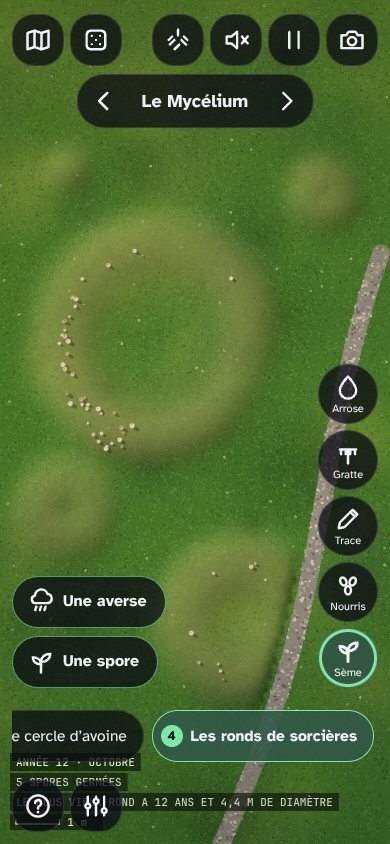
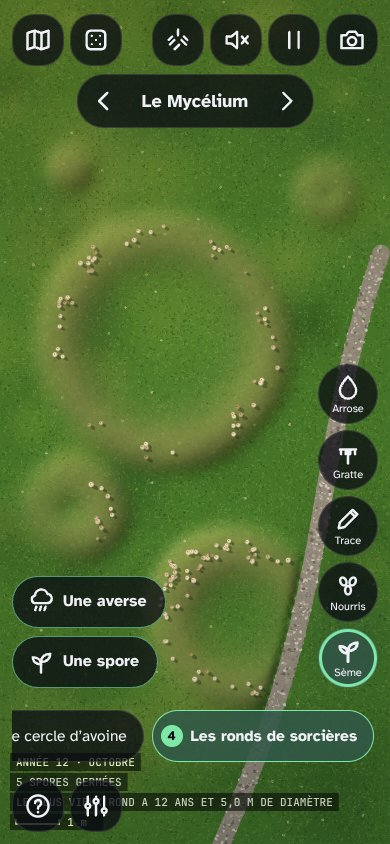
Ronds de sorcières nets sur téléphone et visibles sous la neige ; étiquette et aide du Soleil en 390
- ronds : cases de 3 px sur petit écran, champignons d'au moins 2,1 px ; la neige d'hiver (un voile uni à ~62 %
  une année sur deux) devient une neige piquetée que l'herbe des anneaux perce : ronds vert sombre sur pelouse blanchie
- Soleil : l'étiquette de l'OBSERVER reste dans l'écran (l'auréole coupait « à l'œil nu » en 390) ; la ligne
  d'état trop longue passe à la ligne entre les mots ; aide « Regarde » propre à la scène (jeunesse/meta/lave.js)

Claude-Session: https://claude.ai/code/session_01MS9d5JmMjbNw1P1jiRQA2y

diff --git a/app/js/machines/s-myce-ronds.js b/app/js/machines/s-myce-ronds.js
@@ -20,7 +20,9 @@
     // dans la hauteur utile en paysage et dans la largeur en portrait ; le bas de l'écran porte les boutons.
     const Y0 = V0.y0 || 0, YB = H * (H > W ? 0.83 : 0.86), PXM = clamp(Math.min(VW / 9, Math.max(120, YB - Y0) / 6.8), 34, 240);
     const BX = (u) => V0.x0 + VW * u, BY = (v) => Y0 + (YB - Y0) * v;
-    const CS = W * H > 1.6e6 ? 5 : 4, GW = Math.ceil(W / CS), GH = Math.ceil(H / CS), NC = GW * GH;
+    // taille des cases du calcul : plus fines sur un téléphone, où l'on voit la prairie de plus haut (anneaux nets)
+    const CS = W * H > 1.6e6 ? 5 : W * H < 5e5 ? 3 : 4, GW = Math.ceil(W / CS), GH = Math.ceil(H / CS), NC = GW * GH;
+    const RMIN = Math.min(W, H) < 600 ? 2.1 : 1.3; // rayon minimal d'un champignon dessiné, en px
     const F32 = () => new Float32Array(NC);
     const F = F32(), F2 = F32(), S = F32(), S0 = F32(), N = F32(), G = F32().fill(1), BARE = F32(), BLK = new Uint8Array(NC);
     const TH = 0.45; // en dessous de ce seuil de matière organique, le mycélium meurt de faim
@@ -80,16 +82,30 @@
         g.fillStyle = '#f2c230'; g.beginPath(); g.arc(x, y, r * 0.45, 0, TAU); g.fill();
       }
     }
-    const snow = layer(Math.ceil(W / 3), Math.ceil(H / 3));
+    // la neige (ou le givre) : presque continue, piquetée par les pointes de l'herbe ; l'herbe plus haute des anneaux
+    // la perce, et les ronds se dessinent en vert sombre sur la pelouse blanchie (une vraie image d'hiver) ; à demi-résolution
+    const snow = layer(Math.ceil(W / 2), Math.ceil(H / 2));
     {
-      const g = snow.g; g.fillStyle = 'rgba(244,247,250,.86)'; g.fillRect(0, 0, snow.w, snow.h);
-      for (let i = 0; i < 24; i++) { const x = rnd(snow.w), y = rnd(snow.h), r = rnd(snow.w * 0.3, snow.w * 0.08), gr = g.createRadialGradient(x, y, 0, x, y, r); gr.addColorStop(0, 'rgba(206,218,232,.22)'); gr.addColorStop(1, 'rgba(206,218,232,0)'); g.fillStyle = gr; g.fillRect(x - r, y - r, 2 * r, 2 * r); }
-      for (let i = 0; i < (snow.w * snow.h) / 30; i++) { g.fillStyle = Math.random() < 0.5 ? 'rgba(255,255,255,.7)' : 'rgba(170,186,200,.35)'; g.fillRect(rnd(snow.w), rnd(snow.h), 1, 1); }
+      const g = snow.g, sw = snow.w, shh = snow.h, img = g.createImageData(sw, shh), d = img.data;
+      const cw = 14, CW = Math.ceil(sw / cw) + 2, coarse = new Float32Array(CW * (Math.ceil(shh / cw) + 2));
+      for (let i = 0; i < coarse.length; i++) coarse[i] = Math.random();
+      for (let y = 0; y < shh; y++) {
+        const fy = y / cw, iy = fy | 0, uy = fy - iy;
+        for (let x = 0; x < sw; x++) {
+          const fx = x / cw, ix = fx | 0, ux = fx - ix, k = iy * CW + ix;
+          const cn = (coarse[k] * (1 - ux) + coarse[k + 1] * ux) * (1 - uy) + (coarse[k + CW] * (1 - ux) + coarse[k + CW + 1] * ux) * uy;
+          const a = clamp(0.6 + cn * 0.3 + (Math.random() - 0.5) * 0.55, 0, 1);
+          const o = (y * sw + x) * 4, v = 234 + Math.random() * 20;
+          d[o] = v; d[o + 1] = v + 3; d[o + 2] = Math.min(255, v + 9); d[o + 3] = a * 255;
+        }
+      }
+      g.putImageData(img, 0, 0);
     }
+    const snowT = layer(snow.w, snow.h); // la neige du moment, découpée là où sont les anneaux
     const deco = layer(W, H); // allées de gravier
     // trois calques de teinte : l'herbe drue en multiplication et le relief en lumière douce (la texture de l'herbe
     // reste visible au travers, au lieu d'un aplat flou), la paille et la terre nue par-dessus
-    const tint = buf(GW, GH), tintM = buf(GW, GH), tintL = buf(GW, GH);
+    const tint = buf(GW, GH), tintM = buf(GW, GH), tintL = buf(GW, GH), tintN = buf(GW, GH);
     const idx = (x, y) => { const gx = Math.floor(x / CS), gy = Math.floor(y / CS); return gx < 0 || gy < 0 || gx >= GW || gy >= GH ? -1 : gy * GW + gx; };
     function disk(x, y, r, fn) {
       const R = Math.ceil(r / CS), cx = Math.floor(x / CS), cy = Math.floor(y / CS);
@@ -173,7 +189,7 @@
         const i = front[rint(front.length)], x = ((i % GW) + Math.random()) * CS, y = (((i / GW) | 0) + Math.random()) * CS;
         const nb = 1 + rint(2);
         for (let q = 0; q < nb; q++) {
-          shrooms.push({ x: x + rnd(6, -6), y: y + rnd(6, -6), r: Math.max(1.3, rnd(2.5, 1.1) * 0.01 * PXM * 2.5), t0: T, life: Math.max(0.06, 1.2 / cfg.year) * rnd(1.3, 0.8), hue: rnd(1) });
+          shrooms.push({ x: x + rnd(6, -6), y: y + rnd(6, -6), r: Math.max(RMIN, rnd(2.5, 1.1) * 0.01 * PXM * 2.5), t0: T, life: Math.max(0.06, 1.2 / cfg.year) * rnd(1.3, 0.8), hue: rnd(1) });
         }
         if (snd() && Math.random() < 0.08) au.note(rnd(2400, 1600), 0.04, 'sine', 0.012);
       }
@@ -216,13 +232,14 @@
           d[o] = R; d[o + 1] = Gc; d[o + 2] = B; d[o + 3] = 255;
         }
       } else {
-        const dm = tintM.d, dl = tintL.d;
+        const dm = tintM.d, dl = tintL.d, dn = tintN.d;
         for (let i = 0; i < NC; i++) {
           const o = i * 4;
           if (BLK[i]) { d[o + 3] = 0; dm[o] = dm[o + 1] = dm[o + 2] = 255; dl[o + 3] = 0; continue; }
           // vert sombre : l'azote libéré, une herbe plus drue (multipliée sur l'herbe, donc texturée)
           const n = clamp((N[i] - 0.03) * 1.9, 0, 1);
           dm[o] = 255 - n * 150; dm[o + 1] = 255 - n * 92; dm[o + 2] = 255 - n * 165;
+          dn[o] = dn[o + 1] = dn[o + 2] = 255; dn[o + 3] = Math.min(1, n * 1.5) * 255;
           // cette herbe est plus haute : le côté tourné vers le soleil (en haut à gauche, comme l'ombre des champignons)
           // s'éclaire, l'autre s'assombrit
           const gx = (N[i + 2] || 0) - (N[i - 2] || 0), gy = (N[i + 2 * GW] || 0) - (N[i - 2 * GW] || 0), sh = clamp((gx + gy) * 2.6, -1, 1);
@@ -235,7 +252,7 @@
           const ex = S[i] - S0[i] - 0.15; if (ex > 0) add(78, 52, 30, Math.min(0.85, ex * 0.8));
           d[o] = r; d[o + 1] = g; d[o + 2] = b; d[o + 3] = a * 255;
         }
-        tintM.flush(); tintL.flush();
+        tintM.flush(); tintL.flush(); tintN.flush();
       }
       tint.flush();
     }
@@ -277,7 +294,7 @@
       paintTint();
     }
     quiet = false;
-    if (window.FASC_DEBUG) window.FASC_DEBUG.ronds = { cfg, PXM, get T() { return T; }, get front() { return front.length; }, get shrooms() { return shrooms; }, get diam() { return diam; }, get spores() { return spores; }, probe(x, y) { const i = idx(x, y); return i < 0 ? null : [F[i], S[i], N[i]]; } };
+    if (window.FASC_DEBUG) window.FASC_DEBUG.ronds = { cfg, PXM, get T() { return T; }, get front() { return front.length; }, get shrooms() { return shrooms; }, get diam() { return diam; }, get spores() { return spores; }, run(y) { let left = y; while (left > 1e-9) { const h = Math.min(hmax(), left); step(h); flush(h); left -= h; } scanFront(); paintTint(); }, set snowy(v) { snowy = v; lastYear = Math.floor(T); }, probe(x, y) { const i = idx(x, y); return i < 0 ? null : [F[i], S[i], N[i]]; } };
     const drones = [];
     if (au) drones.push(au.drone(98, 'sine', 0.012), au.drone(147, 'sine', 0.006));
 
@@ -375,7 +392,15 @@
             vg.addColorStop(0, 'rgba(10,20,8,0)'); vg.addColorStop(1, 'rgba(10,20,8,.28)');
             ctx.fillStyle = vg; ctx.fillRect(0, 0, W, H);
           }
-          if (snowA > 0.02) { ctx.globalAlpha = snowA * 0.72; ctx.drawImage(snow.c, 0, 0, W, H); ctx.globalAlpha = 1; }
+          // la neige, un saupoudrage : l'herbe plus haute des anneaux la perce et les dessine en sombre (elle couvrait
+          // tout l'écran une année sur deux)
+          if (snowA > 0.02) {
+            const sg = snowT.g;
+            sg.globalCompositeOperation = 'copy'; sg.drawImage(snow.c, 0, 0);
+            sg.globalCompositeOperation = 'destination-out'; sg.drawImage(tintN.c, 0, 0, (GW * CS) / 2, (GH * CS) / 2);
+            sg.globalCompositeOperation = 'source-over';
+            ctx.globalAlpha = snowA * 0.88; ctx.drawImage(snowT.c, 0, 0, W, H); ctx.globalAlpha = 1;
+          }
           if (rain) {
             ctx.fillStyle = 'rgba(10,18,30,.1)'; ctx.fillRect(0, 0, W, H);   // la pluie assombrit un peu, sans voiler de gris
             ctx.strokeStyle = 'rgba(210,225,240,.35)'; ctx.lineWidth = 1; ctx.beginPath();

diff --git a/app/js/machines/s-lave.js b/app/js/machines/s-lave.js
@@ -1179,6 +1179,15 @@ void main(){
         for (const part of t.split(' · ')) { const nx = cur ? cur + ' · ' + part : part; if (cur && ctx.measureText(nx).width > maxw) { lines.push(cur); cur = part; } else cur = nx; }
         lines.push(cur);
       }
+      // un morceau encore trop long (sans « · ») passe à la ligne entre les mots : en 390 px, la convention de l'or
+      // du Soleil était coupée au bord
+      for (let i = 0; i < lines.length; i++) {
+        if (ctx.measureText(lines[i]).width <= maxw) continue;
+        const ws = lines[i].split(' '); let a = '';
+        while (ws.length && ctx.measureText(a ? a + ' ' + ws[0] : ws[0]).width <= maxw) a = a ? a + ' ' + ws.shift() : ws.shift();
+        if (!a) a = ws.shift();
+        if (ws.length) lines.splice(i, 1, a, ws.join(' '));
+      }
       lines.forEach((t, i) => { ctx.globalAlpha = t === s || s.includes(t) ? 1 : 0.75; ctx.fillText(t, v.x0 + 16, H - 16 - (lines.length - 1 - i) * 15); });
       ctx.restore();
     }
@@ -1236,7 +1245,8 @@ void main(){
       if (a <= 0.01) { label = null; return; }
       if ((label.rt = (label.rt || 0) + 1) % 20 === 0) label.m = readAt(label.x, label.y);
       const [name, role, col] = describe(label), v = view();
-      const side = label.x > v.x0 + v.w * 0.5 ? -1 : 1, lx = label.x + side * 40, ly = label.y < 70 ? label.y + 46 : label.y - 36;
+      const side = label.x > v.x0 + v.w * 0.5 ? -1 : 1, y0 = (env.view && env.view.y0) || 0;
+      let ly = label.y - 36 - 16 < y0 + 4 ? label.y + 46 : label.y - 36;
       ctx.save(); ctx.globalAlpha = a; ctx.strokeStyle = col; ctx.lineWidth = 1;
       ctx.beginPath(); ctx.arc(label.x, label.y, 11, 0, TAU); ctx.stroke();
       // un fond sombre sous le texte : il reste lisible même posé sur le disque doré du Soleil ou sur la lave ;
@@ -1248,8 +1258,13 @@ void main(){
       for (const wd of role.toUpperCase().split(' ')) { const nx = cur ? cur + ' ' + wd : wd; if (cur && ctx.measureText(nx).width > maxW) { lines.push(cur); cur = wd; } else cur = nx; }
       if (cur) lines.push(cur);
       const bw = Math.max(w1, ...lines.map((t) => ctx.measureText(t).width)) + 16;
-      ctx.fillStyle = 'rgba(6,6,12,.62)'; ctx.fillRect(side > 0 ? lx - 8 : lx - bw + 8, ly - 16, bw, 26 + lines.length * 12);
-      ctx.shadowColor = 'rgba(0,0,0,.9)'; ctx.shadowBlur = 6; ctx.textAlign = side > 0 ? 'left' : 'right';
+      // l'étiquette reste dans l'écran : en 390 px, celle de l'auréole sortait par le bord et coupait la fin du texte
+      const bh = 26 + lines.length * 12;
+      const bx = clamp(side > 0 ? label.x + 32 : label.x - 32 - bw, v.x0 + 6, v.x0 + v.w - 6 - bw);
+      ly = Math.min(ly, H - 8 - bh + 16);
+      const lx = bx + 8;
+      ctx.fillStyle = 'rgba(6,6,12,.62)'; ctx.fillRect(bx, ly - 16, bw, bh);
+      ctx.shadowColor = 'rgba(0,0,0,.9)'; ctx.shadowBlur = 6; ctx.textAlign = 'left';
       ctx.fillStyle = 'rgba(250,250,245,.96)'; ctx.font = 'italic 500 14px "Space Grotesk", sans-serif'; ctx.fillText(name, lx, ly);
       ctx.fillStyle = col; ctx.font = '500 9.5px "JetBrains Mono", monospace'; lines.forEach((t, i) => ctx.fillText(t, lx, ly + 15 + i * 12));
       ctx.restore();

diff --git a/jeunesse/meta/lave.js b/jeunesse/meta/lave.js
@@ -15,6 +15,7 @@ FJ.fiche('lave', {
     soleil: { nom: 'La surface du Soleil', via: 'scenes/surface du soleil', poids: 2, outil: 'observer', outils: ['observer'],
       exposes: ['vue_soleil', 'tache', 'temps_soleil'],
       plages: { vue_soleil: [1, 1, 0], tache: 0.6, temps_soleil: [0.4, 1.2] },
+      noms: { observer: { aide: 'Touche le Soleil : un grain, la tache sombre ou une flamme au bord. Tu sauras ce que c’est et sa température.' } },
       essaie: 'Suis un grain brillant des yeux : il naît, grandit puis disparaît en quelques minutes de Soleil.' },
   },
   outils: {

diff --git a/docs/rendu/RENDU-A.md b/docs/rendu/RENDU-A.md
@@ -171,3 +171,23 @@ Le verdict de Constance et de la qualité sur ded80e4 était « moche, de justes
 - Captures : `foudre-atmo-labo.jpg` (1280 × 800, des farfadets en cours) et `foudre-atmo-labo-tel.jpg` (390 × 844).
 - **L'orage au repos en 390 px** (« limite » : nuage presque noir) : en portrait, la base du nuage était à 21 % de la hauteur. La bande réservée du Labo en couvrait l'essentiel, et il ne restait qu'une quarantaine de pixels de nuage visibles. La base descend sous la bande réservée (`y0` + 14 % de la hauteur), et les lueurs et éclairs intranuages se placent dans la partie visible. La pose est un peu plus longue en portrait (×1,35), où l'on voit moins de ciel. Le paysage ne change pas. Capture : `foudre-repos-labo-tel.jpg`.
 - Tests : smoke OK ; test-jeunesse 8/8, lancé seul (en parallèle d'autres navigateurs, le test des 40 machines dépasse 500 s en rendu logiciel) ; test-fiches : seulement les 4 problèmes Blob déjà connus.
+
+## Recontrôle de Constance sur b57b07b et 22ee8e8 (13/11, 19 h 40)
+
+Rien ne passe encore à « non moche » en 390 px. Repris :
+
+- **Ronds de sorcières en 390** (« anneaux flous, champignons de 1 à 3 px ») :
+  - le calcul utilise des cases de 3 px au lieu de 4 sur un téléphone (moins de 500 000 px²), et les anneaux sont nets ;
+  - un champignon dessiné mesure au moins 2,1 px de rayon sur petit écran. La notice dit déjà « davantage sur un petit écran ».
+- **La neige d'hiver** : c'était le « voile délavé ». Un reste du code d'origine : un hiver neigeux 55 % des années, et un calque blanc uni jusqu'à environ 62 %, qui ressemblait à du brouillard.
+  - La neige est maintenant presque continue et piquetée par les pointes de l'herbe.
+  - L'herbe plus haute des anneaux la perce : les ronds se dessinent en vert sombre sur la pelouse blanchie, comme sur les photos de ronds dans le givre.
+  - Captures : `mycelium-ronds-hiver-labo.jpg` et `-tel.jpg`.
+- **Soleil en 390** :
+  - l'étiquette de l'OBSERVER reste dans l'écran, sur les côtés comme sous la bande du haut ; celle de l'auréole sortait par le bord et coupait « à l'œil nu » (capture `lave-soleil-aureole-labo-tel.jpg`) ;
+  - la ligne d'état « le Soleil est blanc : l'or est la convention… » passe à la ligne entre les mots ;
+  - la scène du Soleil a sa propre aide pour « Regarde » (`jeunesse/meta/lave.js`, `scenes.soleil.noms`, le mécanisme de Moiré et de Sonillus) : « un grain, la tache sombre ou une flamme au bord », au lieu de « la cire ou le liquide ».
+- **Restent ouverts** :
+  - « Au-dessus des orages » : environ 60 % de noir. Le vrai remède serait une échelle des altitudes dilatée sous 20 km, où sont les orages (environ ×1,8), et annoncée. C'est un choix de représentation : je le soumets d'abord à Kurt.
+  - Le carton du début, qui couvre les orages, est posé par le shell.
+  - L'orage au repos en 390.
